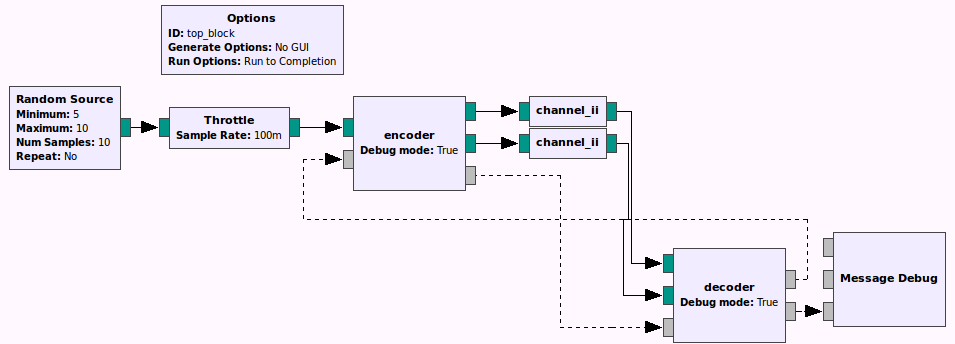
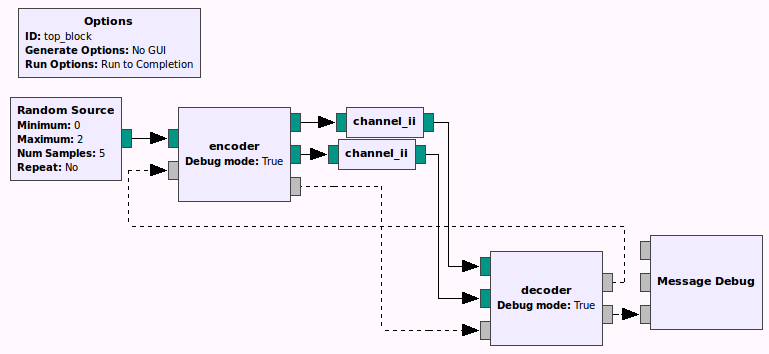
Minor update

diff --git a/examples/top_block.py b/examples/top_block.py
@@ -1,21 +1,11 @@
 #!/usr/bin/env python2
+# -*- coding: utf-8 -*-
 ##################################################
 # GNU Radio Python Flow Graph
 # Title: Top Block
-# Generated: Wed Jan  6 19:35:49 2016
+# Generated: Sat Nov  5 19:51:03 2016
 ##################################################
 
-if __name__ == '__main__':
-    import ctypes
-    import sys
-    if sys.platform.startswith('linux'):
-        try:
-            x11 = ctypes.cdll.LoadLibrary('libX11.so')
-            x11.XInitThreads()
-        except:
-            print "Warning: failed to XInitThreads()"
-
-from PyQt4 import Qt
 from gnuradio import blocks
 from gnuradio import eng_notation
 from gnuradio import gr
@@ -24,47 +14,20 @@ from gnuradio.filter import firdes
 from optparse import OptionParser
 import numpy
 import quantomm
-import sys
 
 
-class top_block(gr.top_block, Qt.QWidget):
+class top_block(gr.top_block):
 
     def __init__(self):
         gr.top_block.__init__(self, "Top Block")
-        Qt.QWidget.__init__(self)
-        self.setWindowTitle("Top Block")
-        try:
-             self.setWindowIcon(Qt.QIcon.fromTheme('gnuradio-grc'))
-        except:
-             pass
-        self.top_scroll_layout = Qt.QVBoxLayout()
-        self.setLayout(self.top_scroll_layout)
-        self.top_scroll = Qt.QScrollArea()
-        self.top_scroll.setFrameStyle(Qt.QFrame.NoFrame)
-        self.top_scroll_layout.addWidget(self.top_scroll)
-        self.top_scroll.setWidgetResizable(True)
-        self.top_widget = Qt.QWidget()
-        self.top_scroll.setWidget(self.top_widget)
-        self.top_layout = Qt.QVBoxLayout(self.top_widget)
-        self.top_grid_layout = Qt.QGridLayout()
-        self.top_layout.addLayout(self.top_grid_layout)
-
-        self.settings = Qt.QSettings("GNU Radio", "top_block")
-        self.restoreGeometry(self.settings.value("geometry").toByteArray())
-
-        ##################################################
-        # Variables
-        ##################################################
-        self.samp_rate = samp_rate = 32000
 
         ##################################################
         # Blocks
         ##################################################
-        self.quantomm_encoder_0 = quantomm.encoder()
-        self.quantomm_decoder_0 = quantomm.decoder()
+        self.quantomm_encoder_0 = quantomm.encoder(True)
+        self.quantomm_decoder_0 = quantomm.decoder(True)
         self.quantomm_channel_ii_1 = quantomm.channel_ii()
         self.quantomm_channel_ii_0 = quantomm.channel_ii()
-        self.blocks_throttle_0 = blocks.throttle(gr.sizeof_int*1, samp_rate,True)
         self.analog_random_source_x_0 = blocks.vector_source_i(map(int, numpy.random.randint(0, 2, 5)), False)
         self.Message_Debug_Out_Plain_Text = blocks.message_debug()
 
@@ -74,40 +37,19 @@ class top_block(gr.top_block, Qt.QWidget):
         self.msg_connect((self.quantomm_decoder_0, 'plaintext'), (self.Message_Debug_Out_Plain_Text, 'print_pdu'))    
         self.msg_connect((self.quantomm_decoder_0, 'feedback'), (self.quantomm_encoder_0, 'feedback'))    
         self.msg_connect((self.quantomm_encoder_0, 'ciphertext'), (self.quantomm_decoder_0, 'ciphertext'))    
-        self.connect((self.analog_random_source_x_0, 0), (self.blocks_throttle_0, 0))    
-        self.connect((self.blocks_throttle_0, 0), (self.quantomm_encoder_0, 0))    
+        self.connect((self.analog_random_source_x_0, 0), (self.quantomm_encoder_0, 0))    
         self.connect((self.quantomm_channel_ii_0, 0), (self.quantomm_decoder_0, 0))    
         self.connect((self.quantomm_channel_ii_1, 0), (self.quantomm_decoder_0, 1))    
         self.connect((self.quantomm_encoder_0, 0), (self.quantomm_channel_ii_0, 0))    
         self.connect((self.quantomm_encoder_0, 1), (self.quantomm_channel_ii_1, 0))    
 
-    def closeEvent(self, event):
-        self.settings = Qt.QSettings("GNU Radio", "top_block")
-        self.settings.setValue("geometry", self.saveGeometry())
-        event.accept()
 
-    def get_samp_rate(self):
-        return self.samp_rate
+def main(top_block_cls=top_block, options=None):
 
-    def set_samp_rate(self, samp_rate):
-        self.samp_rate = samp_rate
-        self.blocks_throttle_0.set_sample_rate(self.samp_rate)
+    tb = top_block_cls()
+    tb.start()
+    tb.wait()
 
 
 if __name__ == '__main__':
-    parser = OptionParser(option_class=eng_option, usage="%prog: [options]")
-    (options, args) = parser.parse_args()
-    from distutils.version import StrictVersion
-    if StrictVersion(Qt.qVersion()) >= StrictVersion("4.5.0"):
-        Qt.QApplication.setGraphicsSystem(gr.prefs().get_string('qtgui','style','raster'))
-    qapp = Qt.QApplication(sys.argv)
-    tb = top_block()
-    tb.start()
-    tb.show()
-
-    def quitting():
-        tb.stop()
-        tb.wait()
-    qapp.connect(qapp, Qt.SIGNAL("aboutToQuit()"), quitting)
-    qapp.exec_()
-    tb = None  # to clean up Qt widgets
+    main()

diff --git a/python/encoder.py b/python/encoder.py
@@ -98,6 +98,8 @@ class encoder(gr.interp_block):
     # main
     def work(self, input_items, output_items):
 	# buffer input data
+        sys.stderr.write("encoder.work():len(input_items[0])): " +  \
+             str(len(input_items[0])) + "\n")
 	self.plain_text.extend(input_items[0])
 	# post photon angle, previous basis pairs
 	for i in range(len(output_items[0])):

diff --git a/python/decoder.py b/python/decoder.py
@@ -108,6 +108,9 @@ class decoder(gr.sync_block):
 		else:
 			# store a random value
 			self.dec_bit = random.randint(0, 1)
+	if self.debug: 
+           sys.stderr.write("decoder.work():feedback: " + \
+                str(feedback) + "\n")
         # post feedback to encoder
         self.message_port_pub(pmt.intern('feedback'), 
 		pmt.to_pmt(feedback)) 

diff --git a/README.md b/README.md
@@ -11,7 +11,7 @@ See: http://people.scs.carleton.ca/~barbeau/Publications/2015/GNURadio_2015.pdf
 ```
 
 # Copyright 2016 Michel Barbeau, Carleton University.
-# Version: October 19, 2016
+# Version: November 5, 2016
 
 ![Loopback Example](https://github.com/michelbarbeau/gr-quantomm/blob/master/sender.jpg)
 
@@ -52,5 +52,24 @@ To run outside gnuradio-companion
 cd gr-quantomm/examples
 
 python top_block.py
+
+EXAMPLE
+
+$ python top_block.py
+encoder.work():len(input_items[0]): 4
+encoder.work():bases: [0 0 1 0 1 1 0 1] angles: [ 90 135  90  45  45  90  45 135]
+encoder.work():len(input_items[0]): 1
+decoder.work():feedback: [0, 0, 1, 0, 0, 0, 1, 0]
+encoder.work():bases: [1 0] angles: [90  0]
+encoder.handle_msg():feedback: [0L, 0L, 1L, 0L, 0L, 0L, 1L, 0L]
+encoder.handle_msg():plain text: [0, 1] cipher text: [1, 0]
+decoder.work():feedback: [0, 0]
+decoder.handle_msg():plain text: [0L, 1L] cipher text: [1L, 0L]
+* MESSAGE DEBUG PRINT PDU VERBOSE *
+()
+pdu_length = 2
+contents = 
+0000: 00 01 
+***********************************
 
 ```
